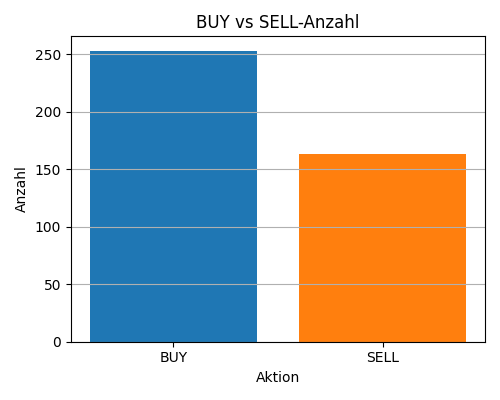
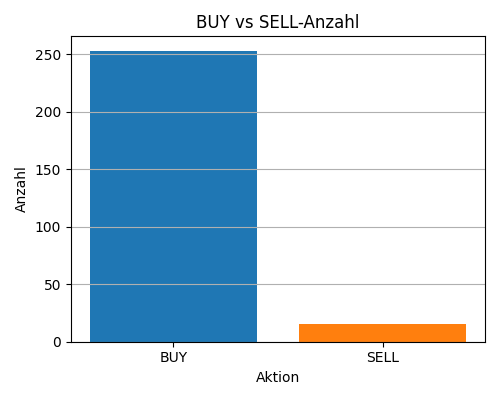
backtesting corrections

Changed region(s): [[0.6, 0.36, 0.93, 0.81]]

diff --git a/experiments/exp_1_1/scripts/09_model_deployment/backtesting.py b/experiments/exp_1_1/scripts/09_model_deployment/backtesting.py
@@ -366,21 +366,21 @@ if getattr(trades_series.index, "tz", None) is not None:
 
 
 
-# Monthly count of BUY/SELL actions
+# Monthly count of BUY/SELL signals
 buy_per_month = (trades_series == "BUY").resample("ME").sum()
 sell_per_month = (trades_series == "SELL").resample("ME").sum()
 
 plt.figure(figsize=(12, 4))
 plt.plot(buy_per_month.index, buy_per_month.values, label="BUY-Anzahl")
 plt.plot(sell_per_month.index, sell_per_month.values, label="SELL-Anzahl")
-plt.title("BUY vs SELL-Aktionen im Zeitverlauf (monatlich)")
+plt.title("BUY vs SELL-Signalen im Zeitverlauf (monatlich)")
 plt.xlabel("Zeit")
 plt.ylabel("Anzahl")
 plt.grid(True)
 plt.legend()
 
 plt.tight_layout()
-plt.savefig("../../images/09_buy_sell_actions.png")
+plt.savefig("../../images/09_buy_sell_signals.png")
 plt.close()
 
 
@@ -448,10 +448,17 @@ plt.tight_layout()
 plt.savefig("../../images/09_price_actions.png")
 plt.close()
 
+# DataFrame with action_log
+actions_df = pd.DataFrame(action_log)
+actions_df["timestamp"] = pd.to_datetime(actions_df["timestamp"])
+actions_df = actions_df.set_index("timestamp")
+# BUY ADD as BUY
+actions_df["action"] = actions_df["action"].replace({"BUY_ADD": "BUY"})
 
 
 # Weekly count of BUY/SELL actions
-actions_per_week = trades_series.resample("W").size()
+actions_per_week = actions_df.resample("W").size()
+actions_per_week.index = actions_per_week.index.tz_localize(None)
 
 plt.figure(figsize=(12, 4))
 plt.bar(actions_per_week.index.astype(str), actions_per_week.values)
@@ -468,7 +475,12 @@ plt.close()
 
 
 # Count of BUY/SELL actions
-counts = trades_series.value_counts().reindex(["BUY", "SELL"]).fillna(0)
+counts = (
+    actions_df["action"]
+    .value_counts()
+    .reindex(["BUY", "SELL"])
+    .fillna(0)
+)
 
 plt.figure(figsize=(5, 4))
 plt.bar(

diff --git a/experiments/exp_1_1/Exp_1_1.md b/experiments/exp_1_1/Exp_1_1.md
@@ -679,7 +679,10 @@ Zentrale Kennzahlen:
 - Finales Kapital: 110 531,63
 - Absoluter Gewinn: +10 531,63
 - Relative Rendite: +10,53 %
-- Anzahl Trades: 416
+- Anzahl Trades-Signalen: 416
+- Anzahl BUY-Orders: 253
+- Anzahl SELL-Orders: 15
+- 
 
 Die Strategie erzielt im betrachteten Zeitraum eine stetig positive Gesamtperformance bei hoher Handelsaktivität.
 
@@ -696,7 +699,7 @@ Trotz Phasen erhöhter Marktvolatilität und vorübergehender Rückgänge bleibt
 
 *2) Zeitliche Verteilung von BUY- und SELL-Signalen*
 
-![Backtesting Signals](images/09_buy_sell_actions.png)
+![Backtesting Signals](images/09_buy_sell_signals.png)
 
 Das Diagramm zeigt, dass im Zeitverlauf deutlich mehr BUY- als SELL-Signale generiert werden, insbesondere in späteren Monaten. Dies deutet darauf hin, dass das LSTM-Modell überwiegend positive Markterwartungen erkennt und die Strategie gezielt auf Aufwärtsbewegungen ausgerichtet ist.
 
